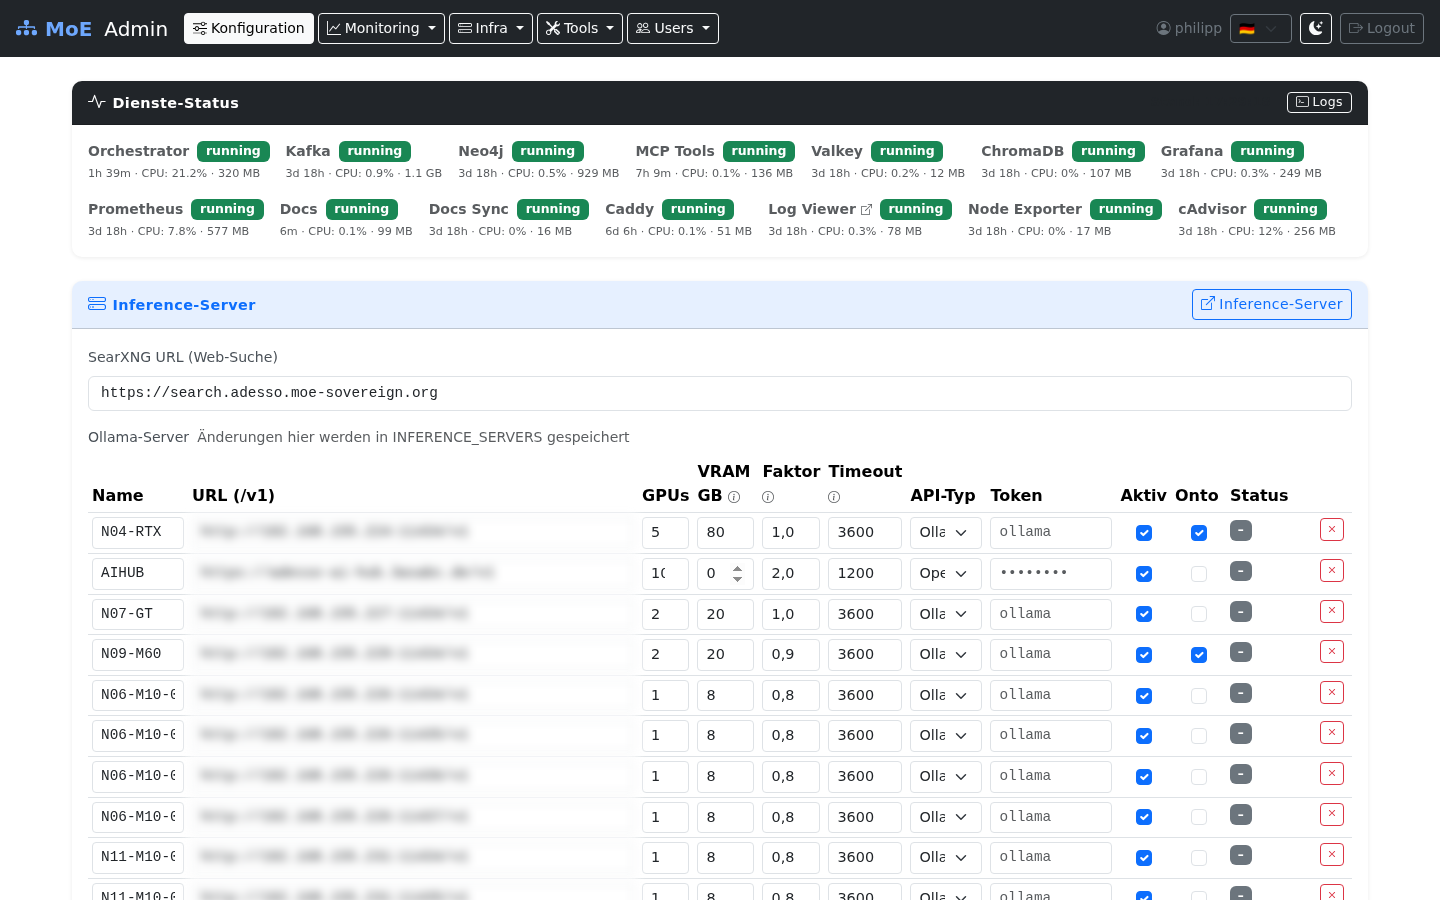
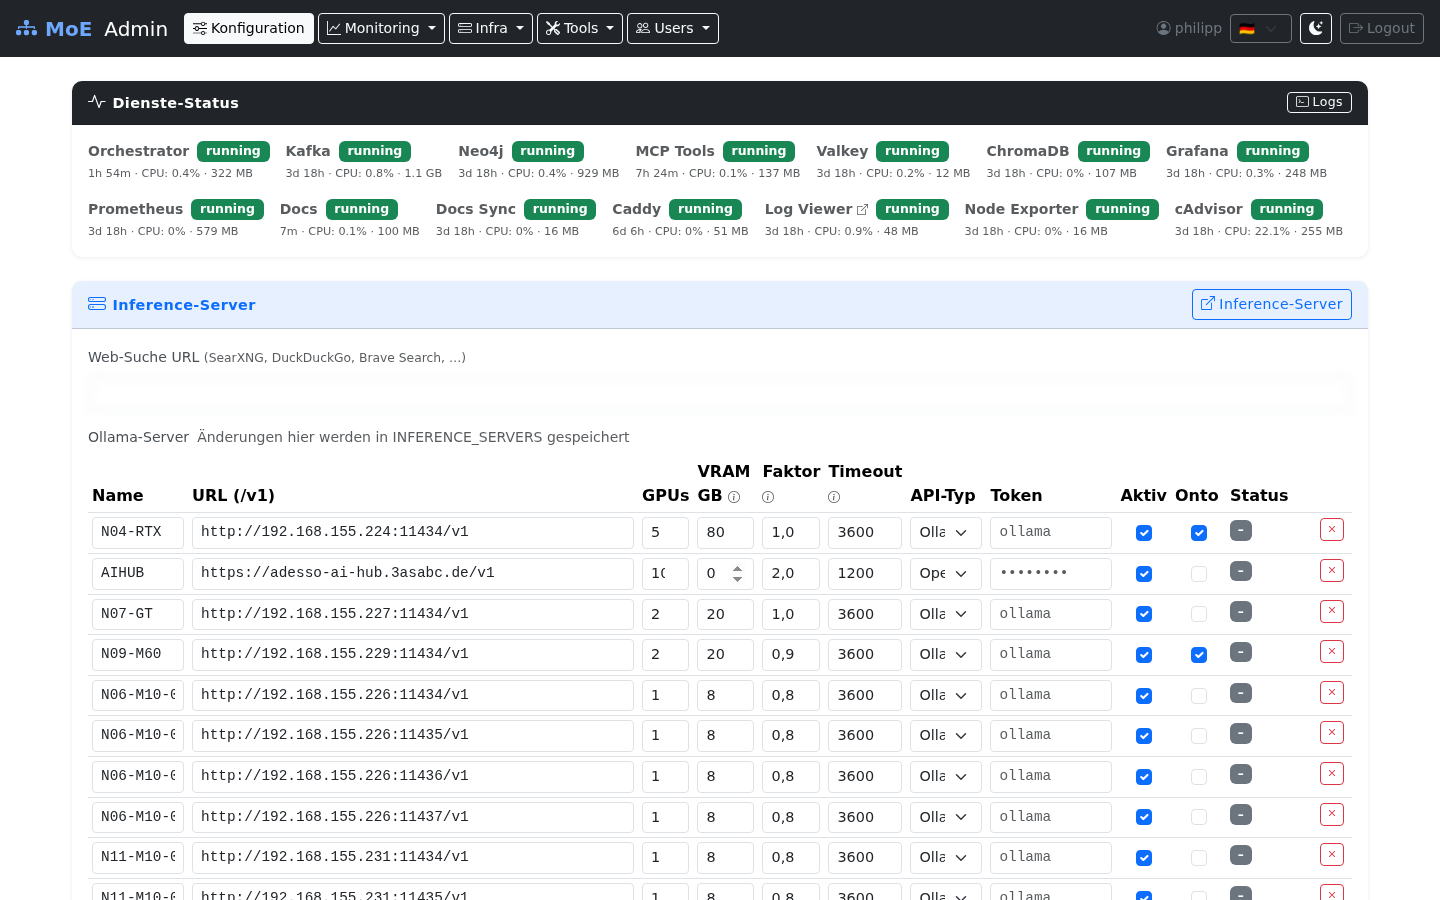
feat: generalize web-search URL label + screenshot with censored URLs
dashboard.html: label changed from 'SearXNG URL (Web-Suche)' to
'Web-Suche URL (SearXNG, DuckDuckGo, Brave Search, …)' with generic
placeholder text — compatible with any OpenAI-compatible search API.

Screenshot admin_dashboard_websearch.png: new crop of the config section
with all URLs blurred (SEARXNG_URL input + server table URL column).

diff --git a/admin_ui/templates/dashboard.html b/admin_ui/templates/dashboard.html
@@ -78,8 +78,9 @@
         </div>
         <div class="card-body">
           <div class="mb-2">
-            <label class="form-label" for="SEARXNG_URL">SearXNG URL (Web-Suche)</label>
+            <label class="form-label" for="SEARXNG_URL">Web-Suche URL <span class="text-muted fw-normal small">(SearXNG, DuckDuckGo, Brave Search, …)</span></label>
             <input type="url" id="SEARXNG_URL" name="SEARXNG_URL" class="form-control font-monospace"
+                   placeholder="https://searxng.example.com  oder  https://duckduckgo.com"
                    value="{{ config.get('SEARXNG_URL','') }}">
           </div>
           <div class="mt-3">
